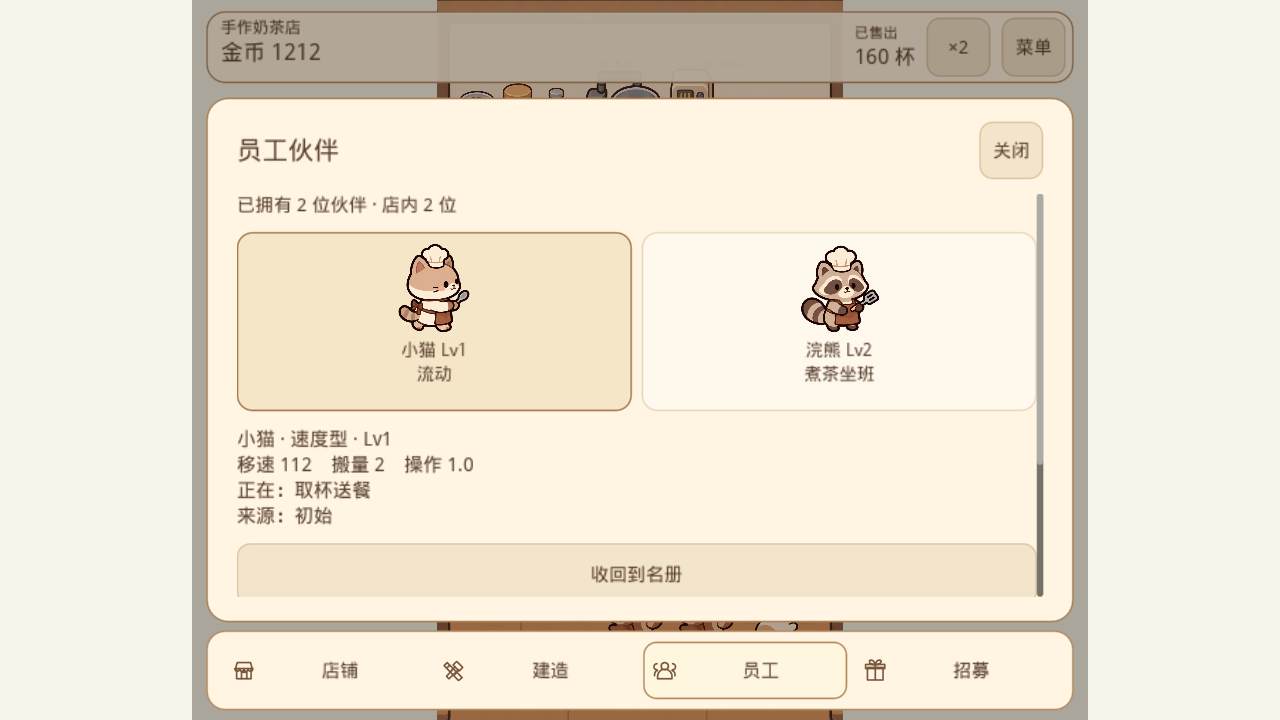
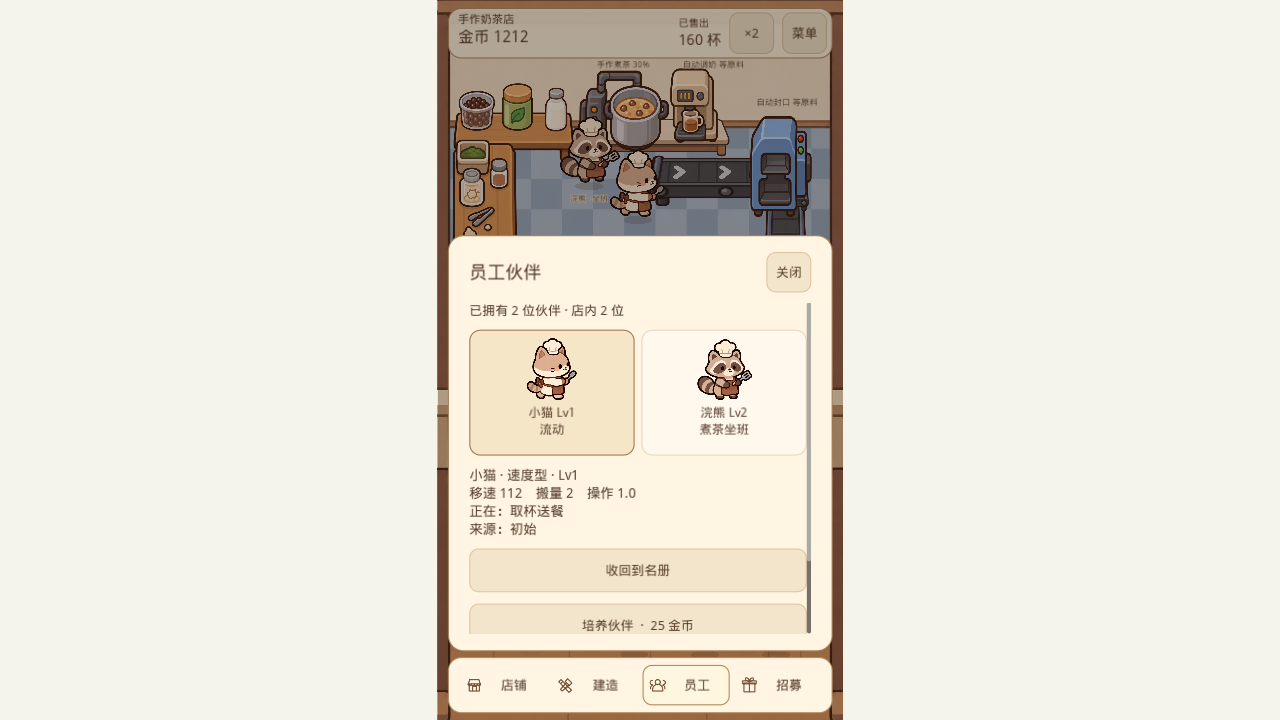
deploy: fix oversized desktop HUD from 2bb7282

diff --git a/dist/index.html b/dist/index.html
@@ -92,7 +92,7 @@ body {
 		</style>
 		<link id="-gd-engine-icon" rel="icon" type="image/png" href="index.icon.png" />
 <link rel="apple-touch-icon" href="index.apple-touch-icon.png"/>
-<style>body{background:#f4f4e9!important}#status{background:#f4f4e9!important}#status-progress{accent-color:#92b29b}</style><meta name='description' content='手作奶茶店经营版：解锁产线与口味、升级设备、招募培养与派遣员工，支持保存经营进度。'>
+<style>body{background:#f4f4e9!important}#status{background:#f4f4e9!important}#status-progress{accent-color:#92b29b}</style><meta name='description' content='奶茶店美术试玩：拖动员工坐班或流动，体验手工制作、机器加工、搬运配送与能力培养。'>
 	<script id="compressed-godot-loader">
 (() => {
   const originalFetch = window.fetch.bind(window);
@@ -133,7 +133,7 @@ body {
 
 		<script src="index.js"></script>
 		<script>
-const GODOT_CONFIG = {"args":[],"canvasResizePolicy":2,"emscriptenPoolSize":8,"ensureCrossOriginIsolationHeaders":true,"executable":"index","experimentalVK":false,"fileSizes":{"index.pck":7583568,"index.wasm":37700666},"focusCanvas":true,"gdextensionLibs":[],"godotPoolSize":4};
+const GODOT_CONFIG = {"args":[],"canvasResizePolicy":2,"emscriptenPoolSize":8,"ensureCrossOriginIsolationHeaders":true,"executable":"index","experimentalVK":false,"fileSizes":{"index.pck":7583344,"index.wasm":37700666},"focusCanvas":true,"gdextensionLibs":[],"godotPoolSize":4};
 const GODOT_THREADS_ENABLED = false;
 const engine = new Engine(GODOT_CONFIG);
 

diff --git a/docs/qa/tea-business.md b/docs/qa/tea-business.md
@@ -36,6 +36,8 @@
 
 弹层阻挡场景点击；裁剪或隐藏的卡片不能启拖；顶部、导航等 UI 区域不能作为放置落点。未派出员工不会留在场景里，收回后动物会立即移除。
 
+桌面横屏的 UI 与店铺共用缩放和边界，不再按浏览器宽度放大。额外验证 1340×1080 和 1280×720 下顶栏、导航栏均落在店铺范围内。
+
 - [新店价格牌](tea-business-opening.png)
 - [设备升级](tea-business-machine.png)
 - [原料成长](tea-business-materials.png)
